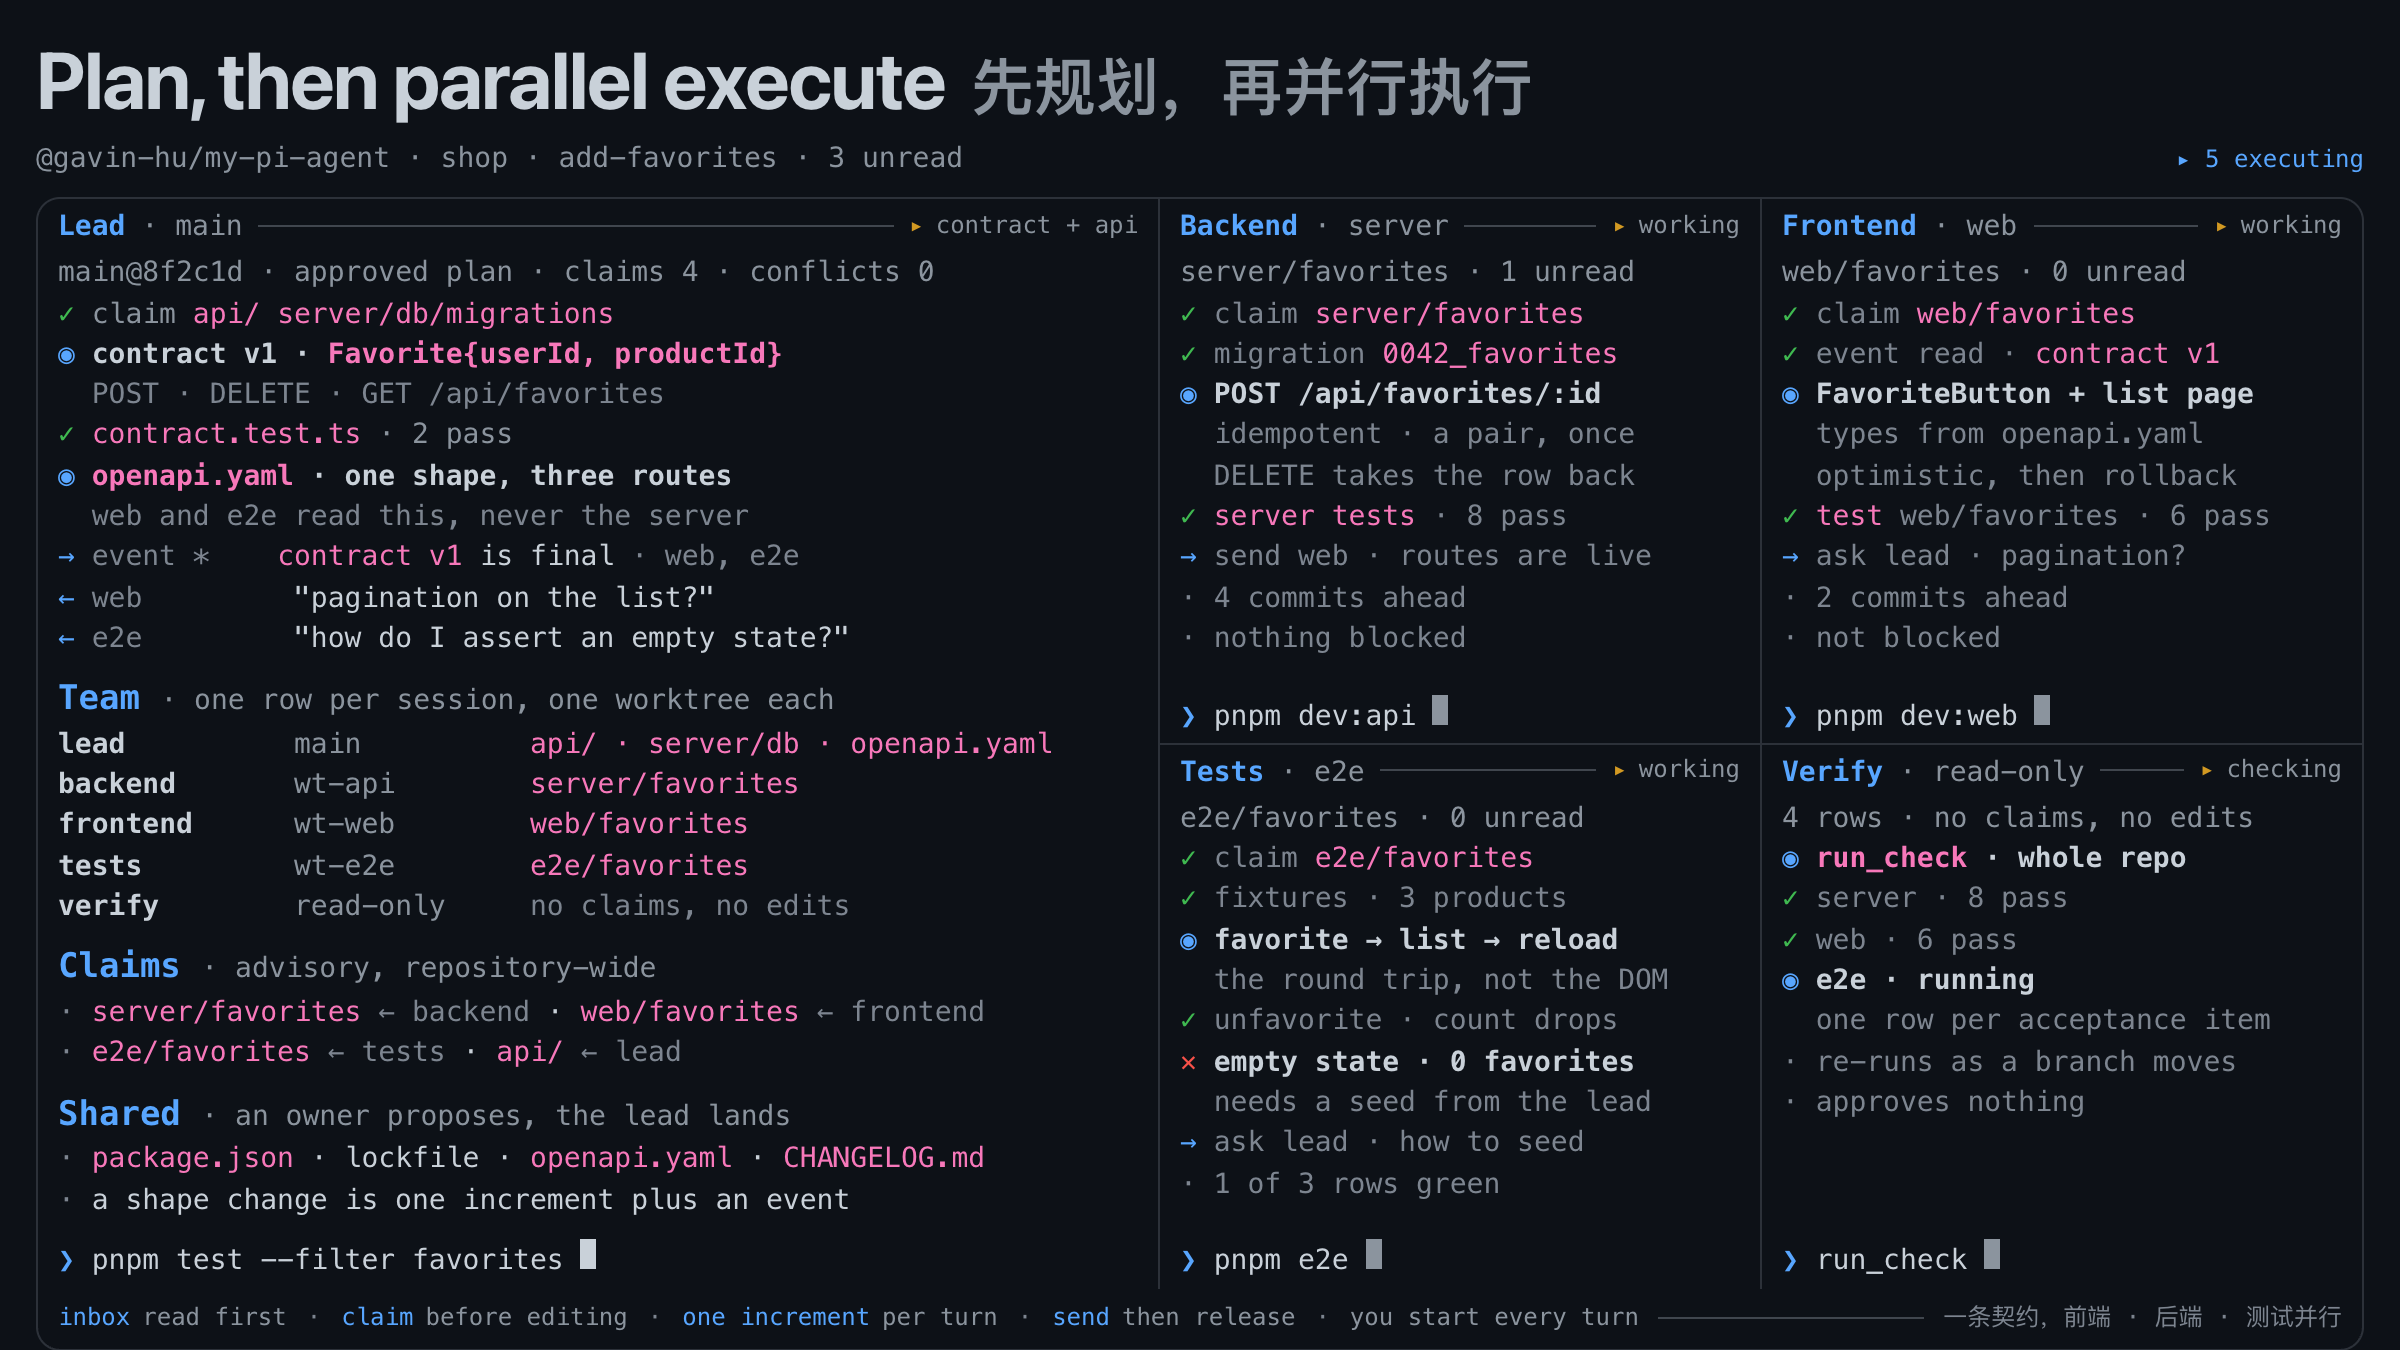
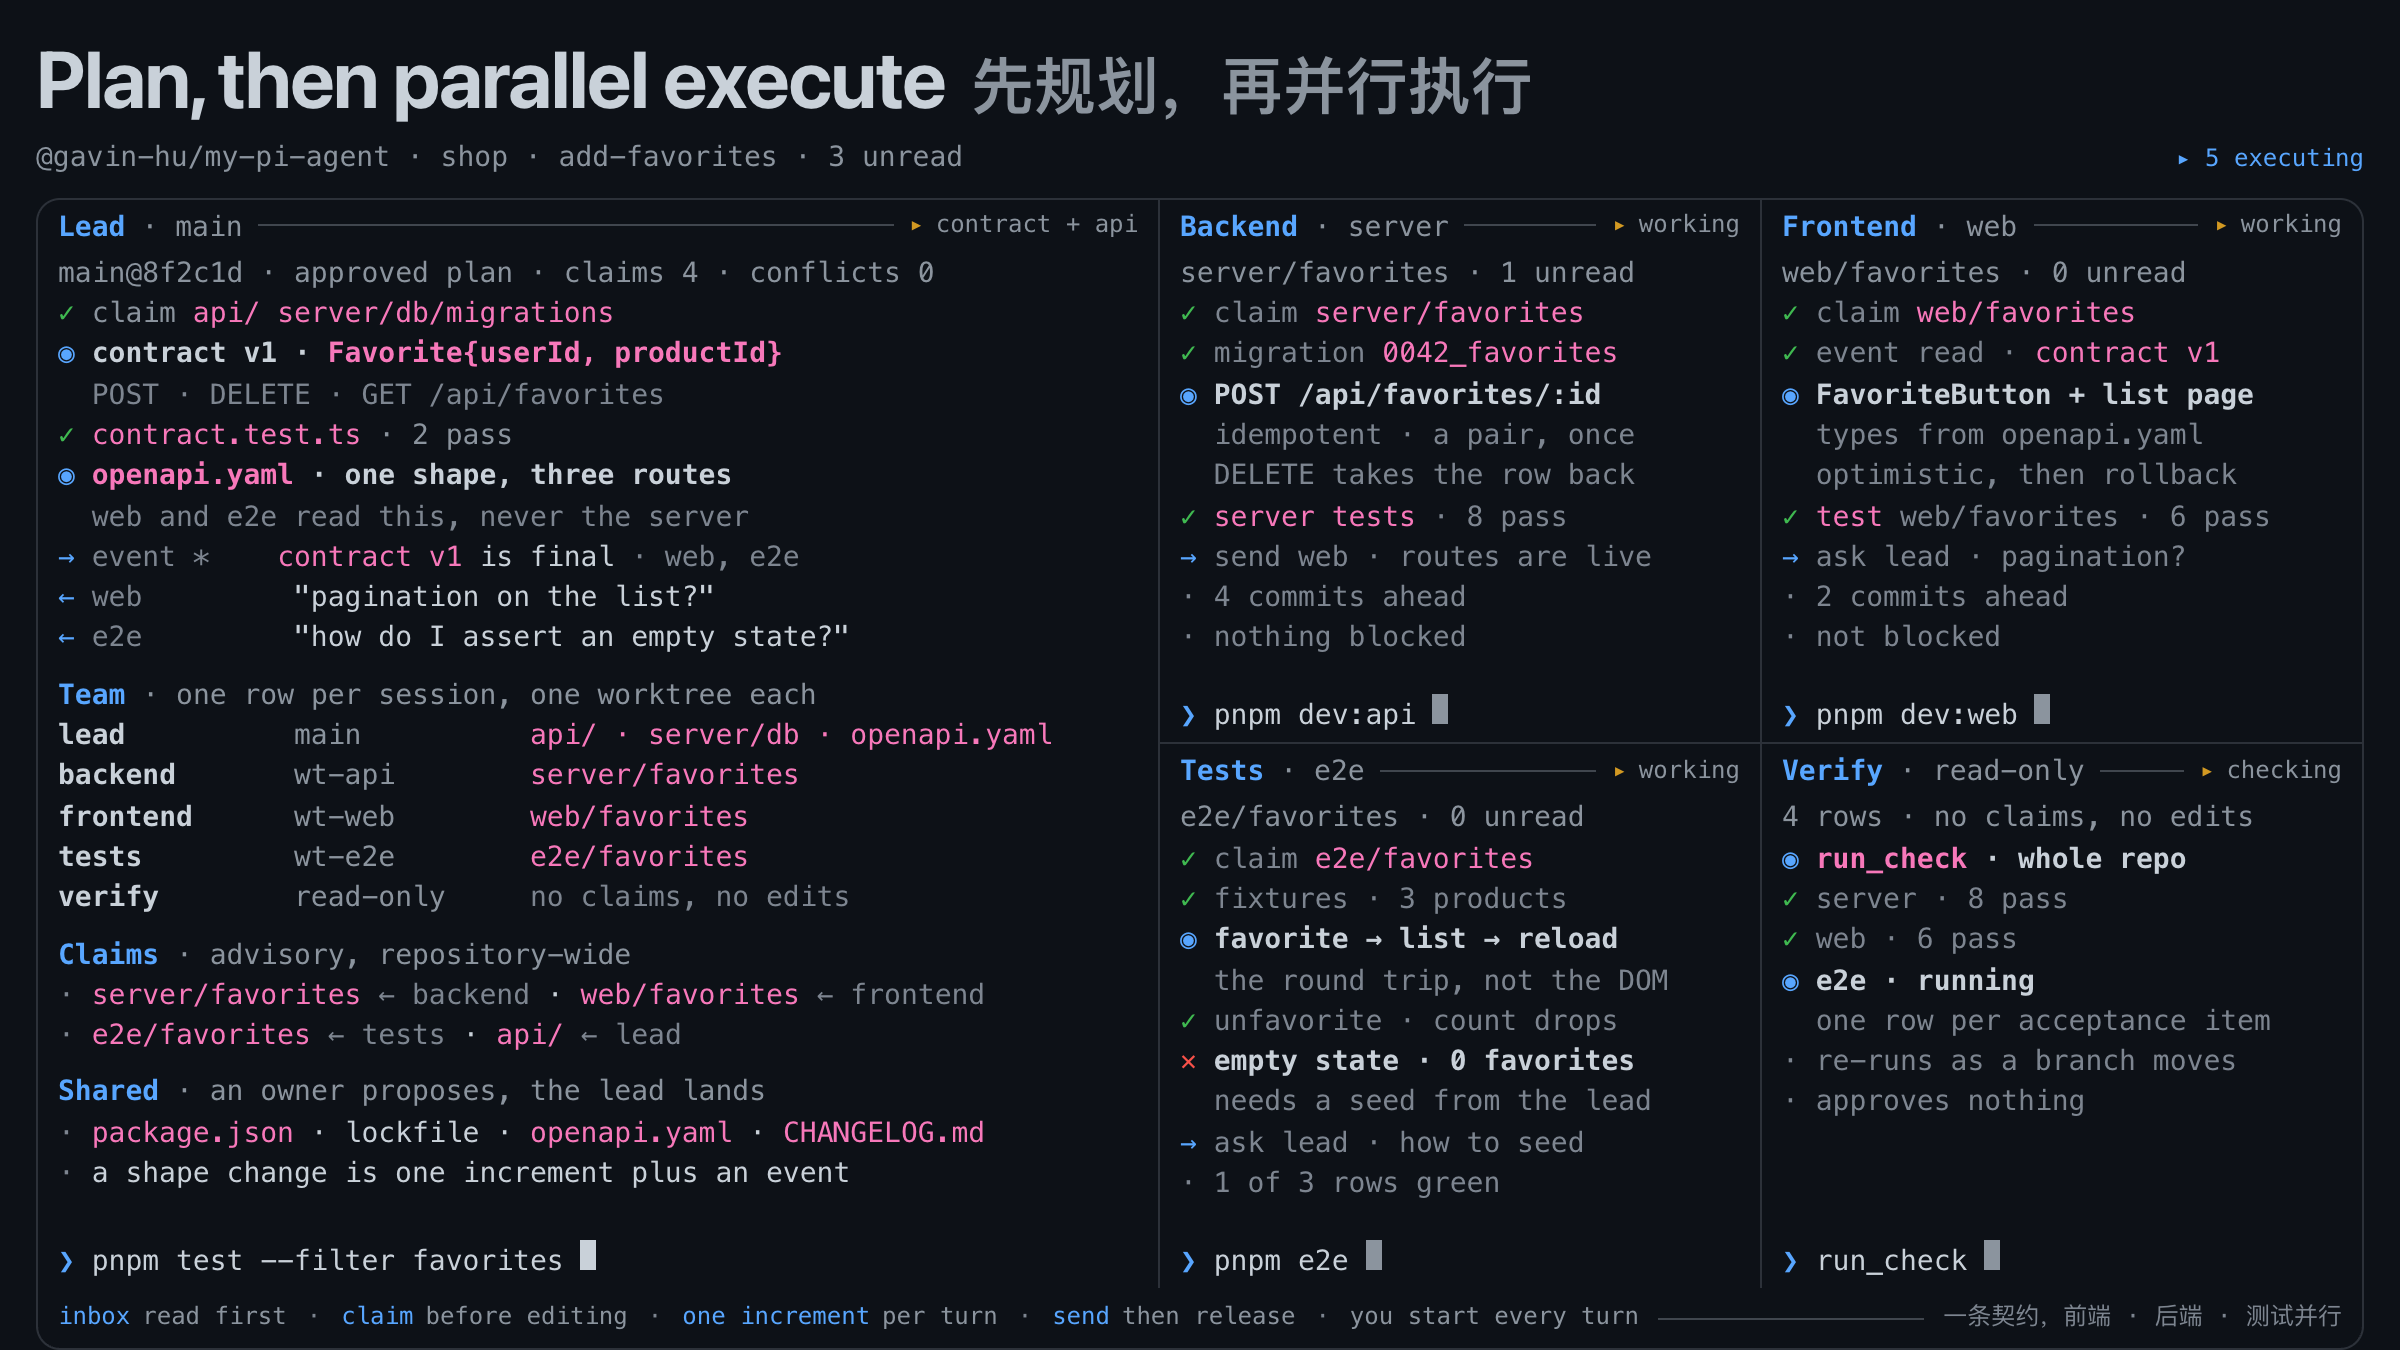
docs(assets): stop sharing two class names between the cards
`.label` and `.gate` were each declared twice in one stylesheet — once for the
SVG diagram, once for the terminal frame — and CSS has one namespace, so the
second declaration silently rewrote the first. `.label` cost a real pixel: the
diagram's node names lost the 650 weight their own block sets to the terminal
rule's 600, and `parallel-dev.html`'s `Team`, `Claims` and `Shared` labels took
the diagram's 17px and its `text-anchor: middle` instead of the 14px mono the
panes around them set.

The diagram's side becomes `.node-label` and `.node-label--zh`, the names it
already used for `lane-label` and `edge-label`, so each card says what it means
and the cascade has nothing to arbitrate. `.gate`'s second declaration was dead
— no page carries that class — so it goes with the rename rather than becoming
another name. `parallel-dev.png` is recaptured at 1200×675: its three section
labels now sit at 14px like the rest of the frame.

diff --git a/assets/plan-flow-graphic.html b/assets/plan-flow-graphic.html
@@ -66,15 +66,15 @@
 				<!-- ① ask -->
 				<rect class="node" x="66" y="138" width="60" height="60" rx="13" />
 				<path class="glyph glyph--accent" d="M84,157 L94,168 L84,179 M100,183 L112,183" />
-				<text class="label" x="96" y="238">ask</text>
-				<text class="label label--zh" x="96" y="264">发起</text>
+				<text class="node-label" x="96" y="238">ask</text>
+				<text class="node-label node-label--zh" x="96" y="264">发起</text>
 
 				<!-- ② explore -->
 				<circle class="node" cx="282" cy="164" r="30" />
 				<circle class="glyph" cx="278" cy="160" r="12" />
 				<path class="glyph" d="M287,169 L298,180" />
-				<text class="label" x="282" y="238">explore</text>
-				<text class="label label--zh" x="282" y="264">探索</text>
+				<text class="node-label" x="282" y="238">explore</text>
+				<text class="node-label node-label--zh" x="282" y="264">探索</text>
 
 				<!-- ③ the plan file -->
 				<rect class="node" x="438" y="138" width="60" height="60" rx="13" />
@@ -82,15 +82,15 @@
 				<path class="glyph" d="M458,173 H478 M458,179 H472" />
 				<rect class="only-write" x="404" y="100" width="128" height="22" rx="11" />
 				<text class="only-write-text" x="468" y="115">only write · 唯一写入</text>
-				<text class="label" x="468" y="238">plan file</text>
-				<text class="label label--zh" x="468" y="264">计划文件</text>
+				<text class="node-label" x="468" y="238">plan file</text>
+				<text class="node-label node-label--zh" x="468" y="264">计划文件</text>
 
 				<!-- ④ the human gate -->
 				<polygon class="gate" points="732,90 786,168 732,246 678,168" />
 				<circle class="gate-mark" cx="732" cy="158" r="10" />
 				<path class="gate-mark" d="M727,153 Q732,147 737,153 Q737,158 732,161 V165" />
-				<text class="label" x="732" y="187">review</text>
-				<text class="label label--zh" x="732" y="207">审阅</text>
+				<text class="node-label" x="732" y="187">review</text>
+				<text class="node-label node-label--zh" x="732" y="207">审阅</text>
 
 				<!-- ⑤ execute -->
 				<circle class="node" cx="950" cy="168" r="30" />
@@ -103,8 +103,8 @@
 				<path class="glyph glyph--success" d="M1017,175 L1020,178 L1025,172" />
 				<rect class="node" x="1014" y="193" width="14" height="14" rx="4" />
 				<path class="glyph" d="M1034,150 H1078 M1034,175 H1070 M1034,200 H1062" />
-				<text class="label" x="950" y="238">execute</text>
-				<text class="label label--zh" x="950" y="264">执行</text>
+				<text class="node-label" x="950" y="238">execute</text>
+				<text class="node-label node-label--zh" x="950" y="264">执行</text>
 
 				<!-- the spine -->
 				<line class="edge" x1="132" y1="168" x2="240" y2="168" marker-end="url(#tip)" />

diff --git a/assets/plan-flow.css b/assets/plan-flow.css
@@ -378,14 +378,16 @@ body {
 	stroke-dasharray: 6 6;
 }
 
-.label {
+/* A node's name, beside `lane-label` and `edge-label`; not `.label`, which is
+ * the terminal card's section label and sets a colour, not a fill. */
+.node-label {
 	font-size: 17px;
 	font-weight: 650;
 	fill: var(--text);
 	text-anchor: middle;
 }
 
-.label--zh {
+.node-label--zh {
 	font-size: 14px;
 	font-weight: 500;
 	fill: var(--muted);
@@ -619,10 +621,6 @@ body {
 
 .bad {
 	color: var(--danger);
-}
-
-.gate {
-	color: var(--accent-alt);
 }
 
 .warn {

diff --git a/CHANGELOG.md b/CHANGELOG.md
@@ -230,6 +230,15 @@ to [Semantic Versioning](https://semver.org/spec/v2.0.0.html).
 
 ### Fixed
 
+- dev: the posting cards' one stylesheet stops declaring `.label` twice, once for the
+  SVG diagram's node names and once for the terminal card's section labels, which is a
+  single global namespace: the diagram's nodes lost the `650` weight their own block
+  declares to the terminal rule's `600`, and `parallel-dev.html`'s `Team`, `Claims` and
+  `Shared` labels took the diagram's `17px` and its `text-anchor: middle` instead of the
+  `14px` mono the panes around them set. The diagram's side is now `.node-label` and
+  `.node-label--zh`, beside the `lane-label` and `edge-label` it already had, and both
+  cards render what their own block says, and the second `.gate` — the same mistake,
+  setting a colour for a class no page uses — is gone.
 - `plan`: a comment a refinement carries stays on its own step when a step is
   inserted or deleted above it. Placement fell back to the comment's position
   among the section's blocks, so anything added above shifted every comment below
